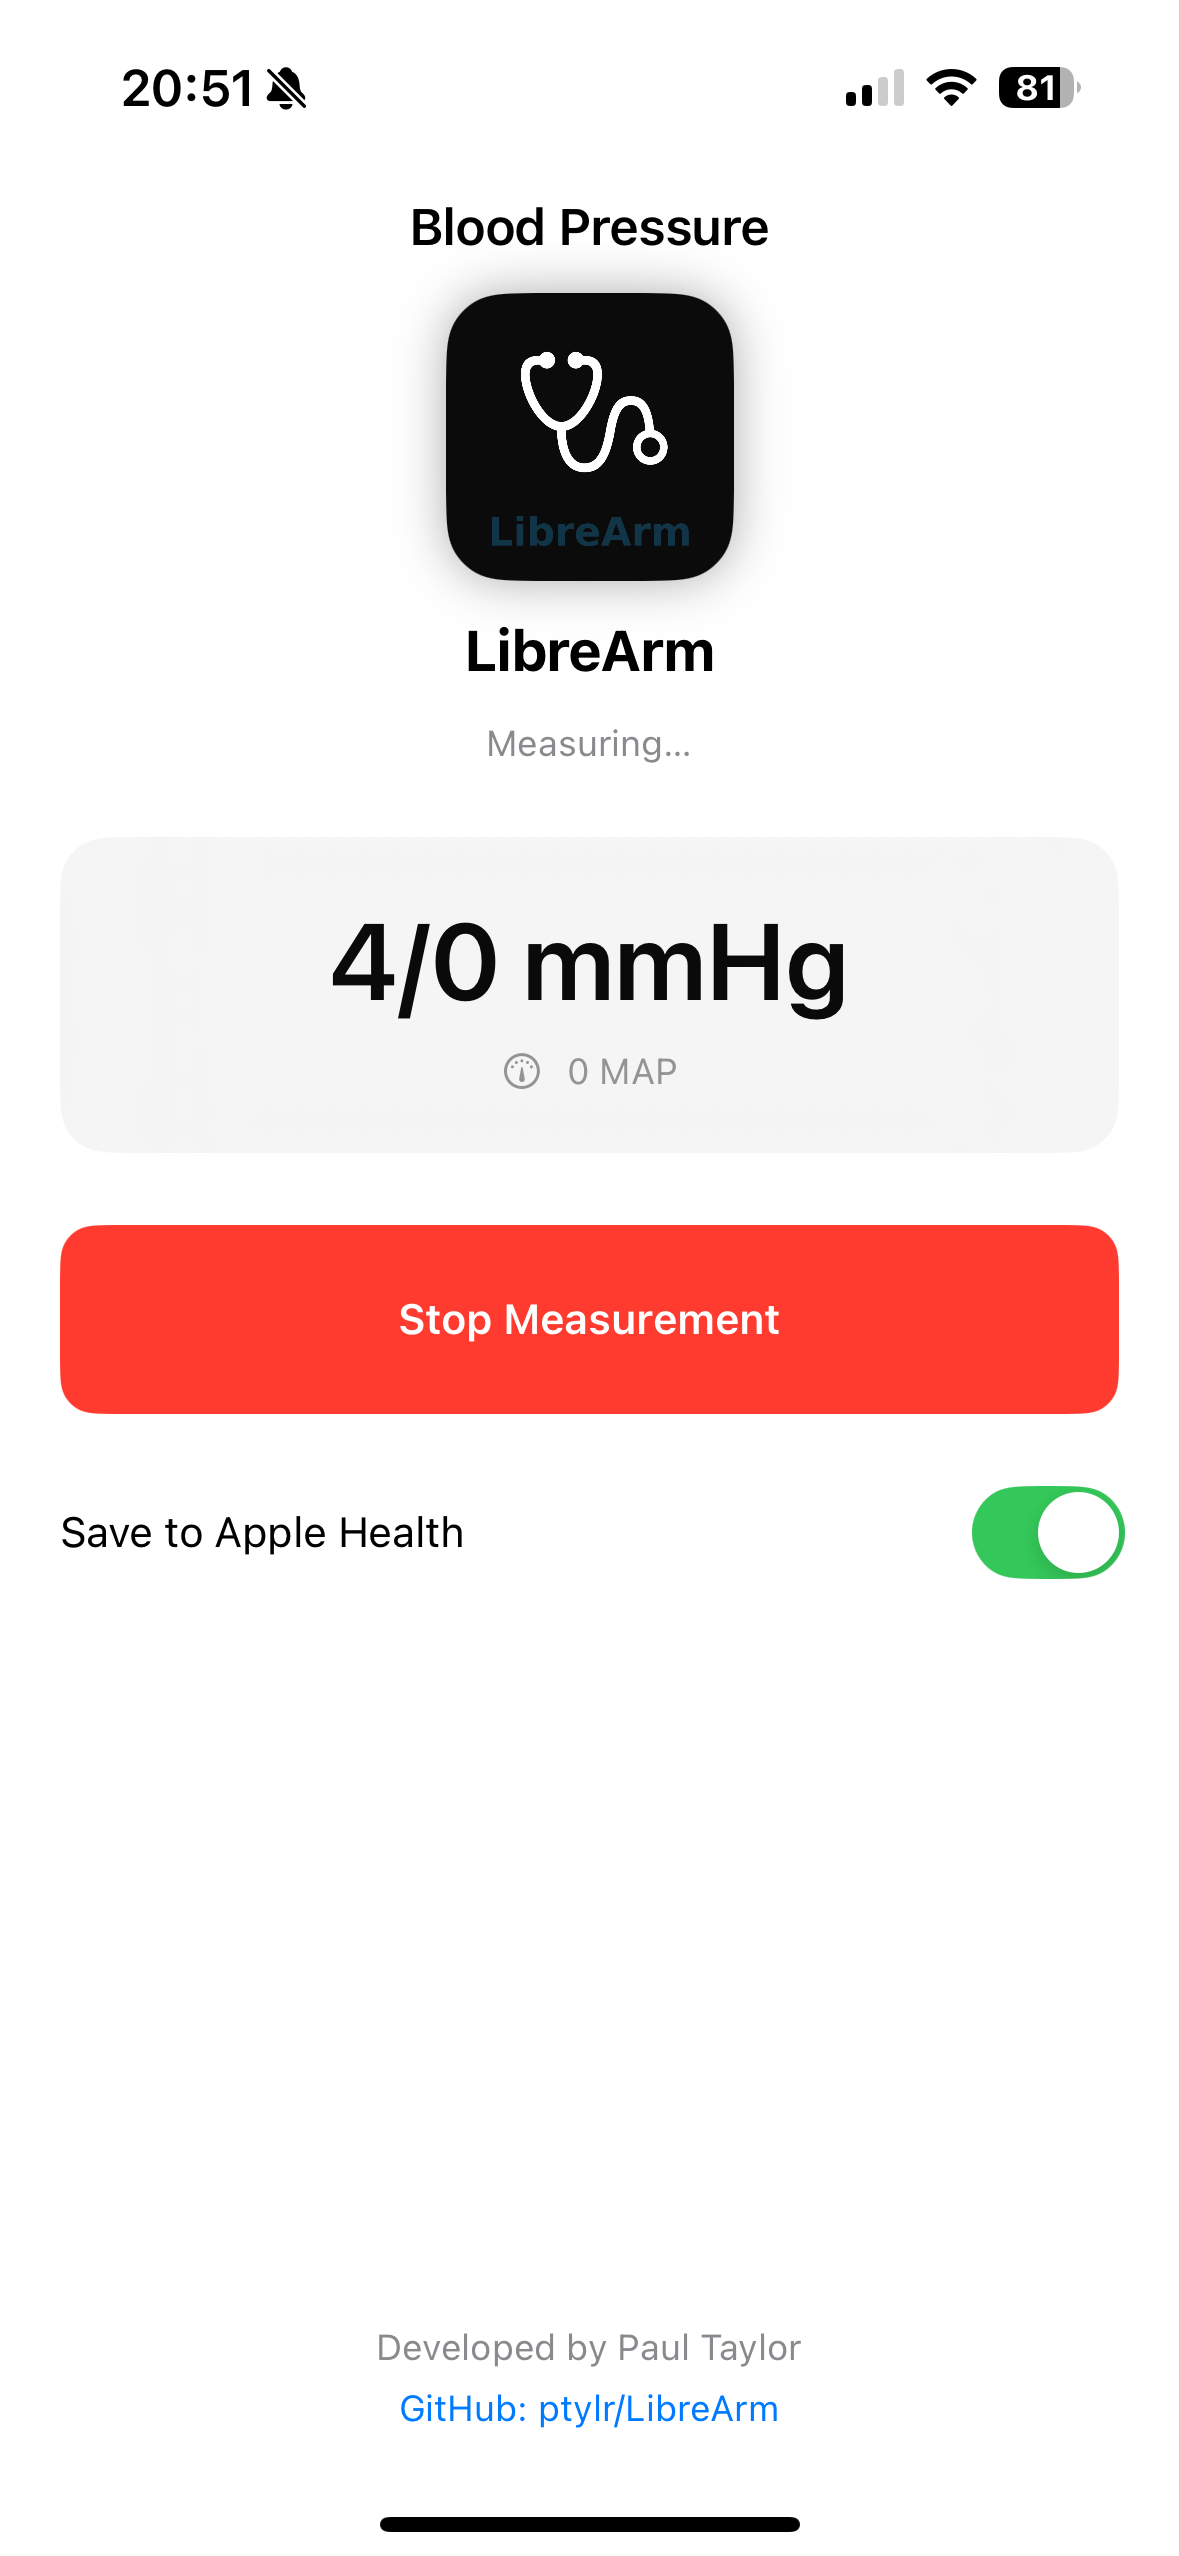
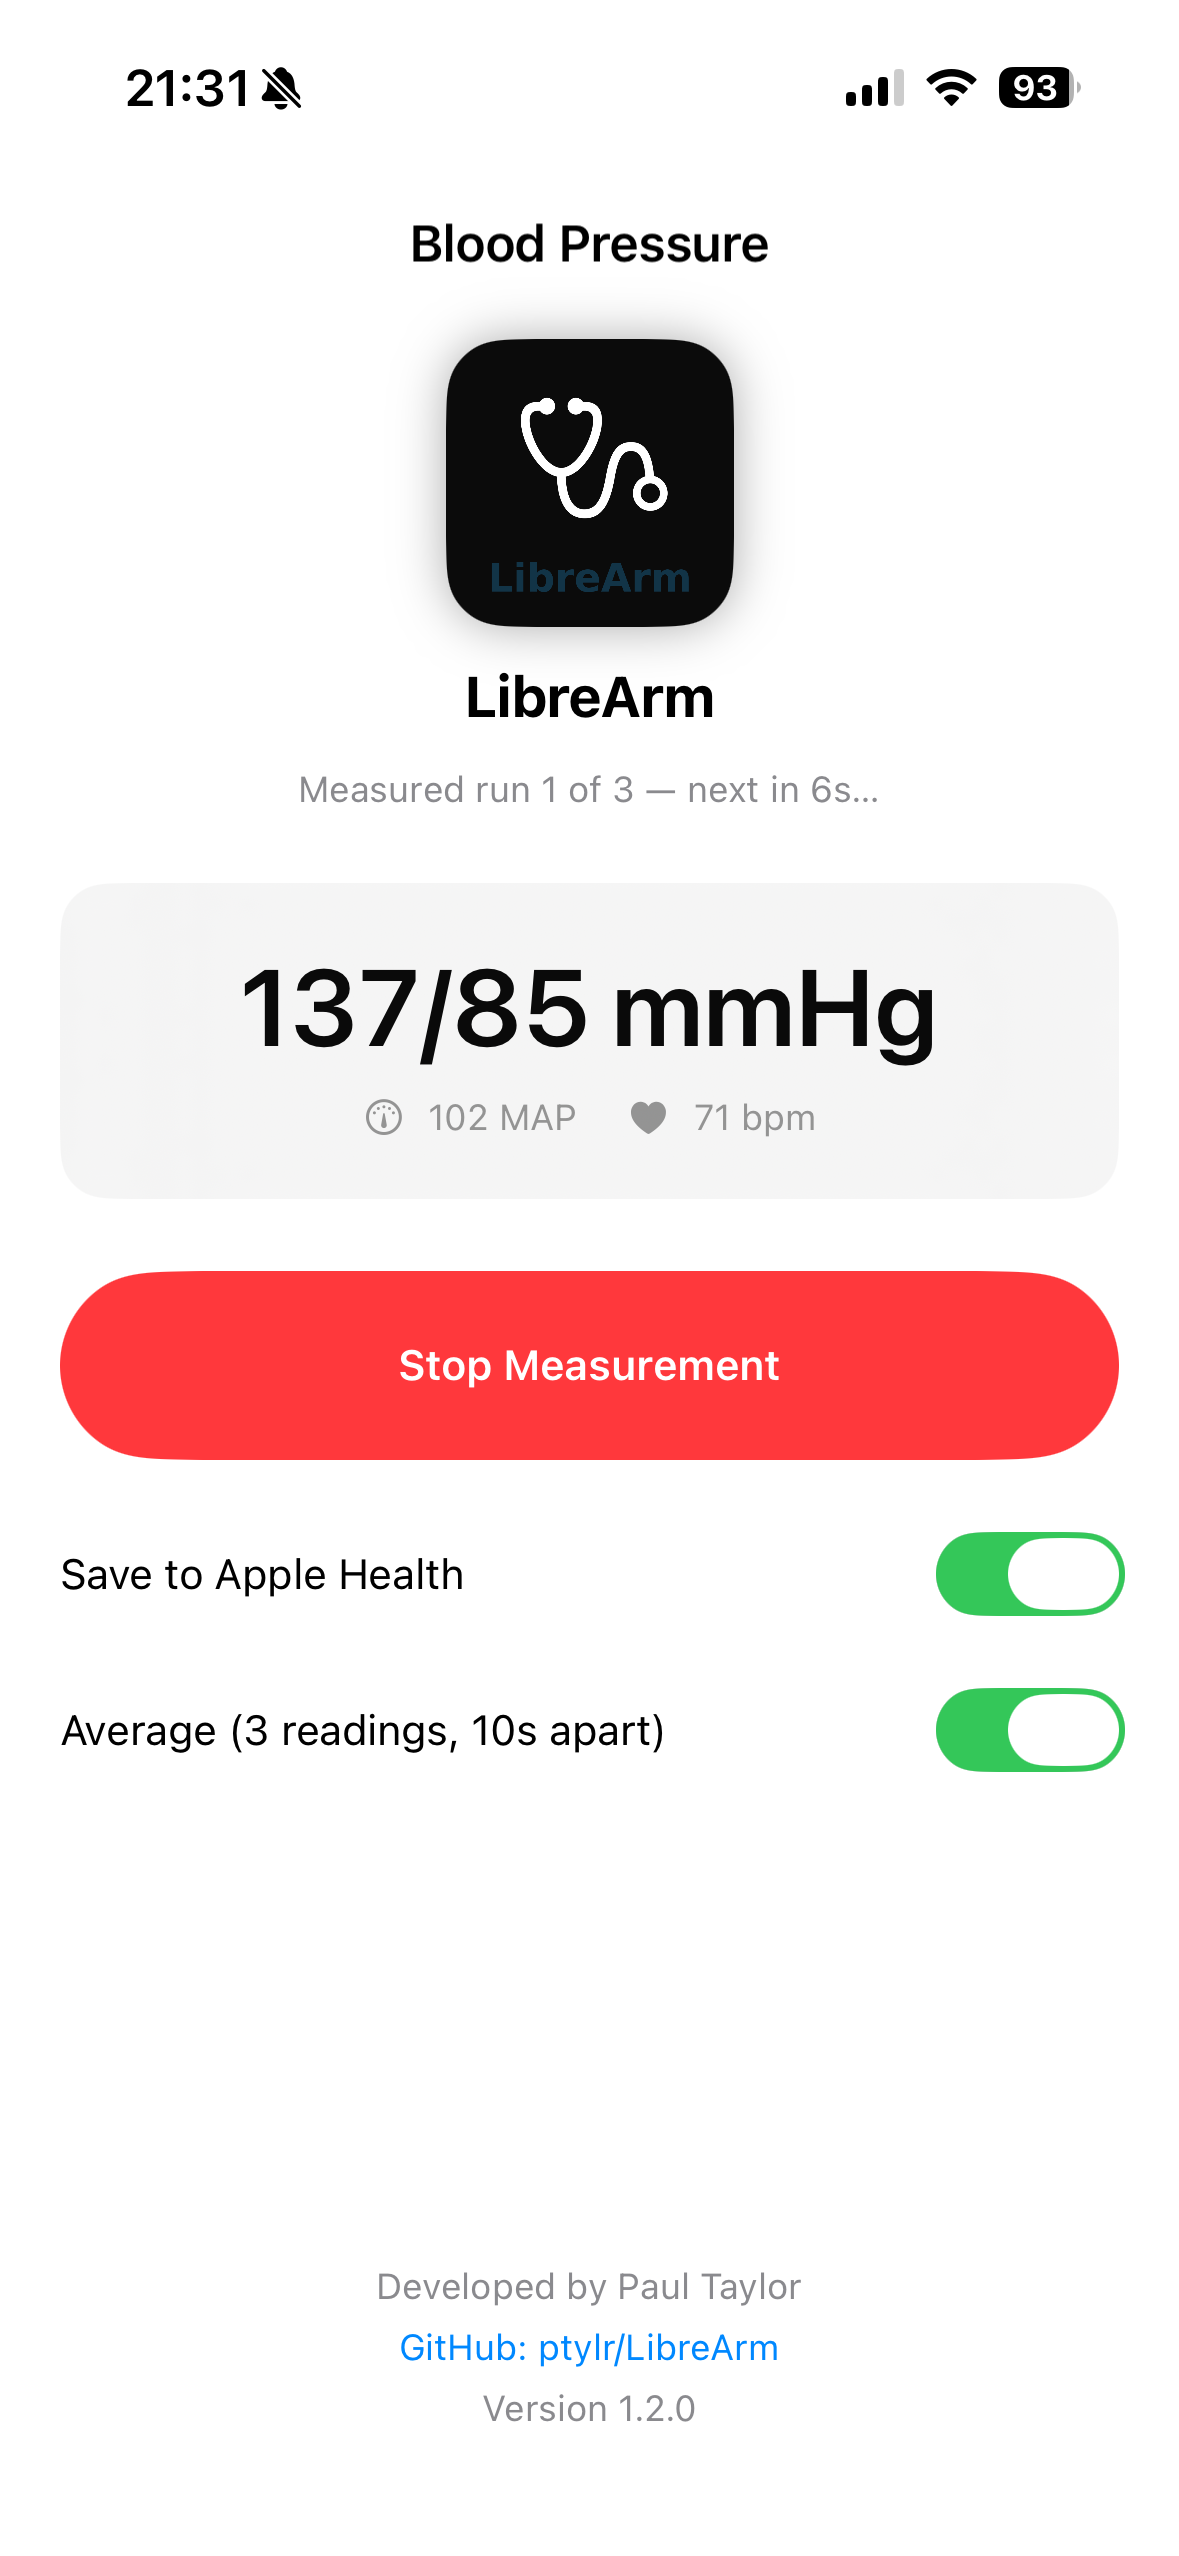
v1.2.0
What’s New in Version 1.2.0
• New Average Mode: the app now performs 3 readings spaced 10 seconds apart, and saves the averaged result
• Live countdown display between runs (“next in Xs…”)
• Stop button stays red and active until the entire 3-run sequence completes
• Screen no longer sleeps during measurements
• Added version label in the app footer for clarity

diff --git a/Core/BPClient.swift b/Core/BPClient.swift
@@ -1,5 +1,11 @@
 import CoreBluetooth
 import Foundation
+import UIKit
+
+enum MeasurementMode {
+    case single
+    case average3
+}
 
 struct BPReading { let sys: Double; let dia: Double; let map: Double?; let hr: Double? }
 
@@ -10,6 +16,14 @@ final class BPClient: NSObject, ObservableObject {
     @Published var isConnected = false
     @Published var canMeasure = false
     @Published var isMeasuring = false        // 🔴 NEW: drive Start/Stop button
+
+    // Measurement mode
+    @Published var measurementMode: MeasurementMode = .single
+
+    // Averaging session state (used only when measurementMode == .average3)
+    private var remainingRuns: Int = 0
+    private var accumulatedReadings: [BPReading] = []
+    private let interRunDelaySeconds: TimeInterval = 10
 
     /// Fires once per measurement session when the cuff stops sending updates.
     var onFinalReading: ((BPReading) -> Void)?
@@ -83,12 +97,34 @@ final class BPClient: NSObject, ObservableObject {
 
     /// Start measurement (enabled when `canMeasure` is true).
     func startMeasurement() {
-        guard let p = peripheral, let c = controlChar, canMeasure else { return }
-        status = "Measuring…"
+        guard let _ = peripheral, let _ = controlChar, canMeasure else { return }
+        // If we're already in a multi-run session, ignore additional starts so the UI stays in Stop state
+        if measurementMode == .average3 && sessionActive {
+            return
+        }
+        status = (measurementMode == .average3) ? "Measuring (run 1 of 3)…" : "Measuring…"
         sessionActive = true
         hasFiredFinal = false
-        isMeasuring = true                          // 🔴 measuring ON
+        isMeasuring = true
+        UIApplication.shared.isIdleTimerDisabled = true
         completionWorkItem?.cancel()
+
+        if measurementMode == .single {
+            // One-and-done
+            accumulatedReadings.removeAll()
+            remainingRuns = 0
+            performSingleRunStart()
+        } else {
+            // Average over 3 runs spaced by 10s
+            accumulatedReadings.removeAll()
+            remainingRuns = 3
+            performSingleRunStart()
+        }
+    }
+
+    /// Internal: send the start command to the cuff (assumes BLE characteristics are ready)
+    private func performSingleRunStart() {
+        guard let p = peripheral, let c = controlChar else { return }
         p.writeValue(startCommand, for: c, type: .withResponse)
     }
 
@@ -96,10 +132,14 @@ final class BPClient: NSObject, ObservableObject {
     func cancelMeasurement() {
         guard let p = peripheral, let c = controlChar else { return }
         p.writeValue(cancelCommand, for: c, type: .withResponse)
+        // Cancel any averaging session
+        remainingRuns = 0
+        accumulatedReadings.removeAll()
         // Do not call finalize (which would save); just reset state.
         sessionActive = false
         hasFiredFinal = true
         isMeasuring = false                         // 🔴 measuring OFF
+        UIApplication.shared.isIdleTimerDisabled = false
         status = "Connected — ready"
     }
 
@@ -116,20 +156,71 @@ final class BPClient: NSObject, ObservableObject {
 
     private func finalizeIfNeeded() {
         // Must be in-session, not already finalized, and have a latest reading
-        guard sessionActive, !hasFiredFinal, let reading = lastReading else { return }
+        guard sessionActive, let reading = lastReading else { return }
 
-        // ✅ Only finalize when the measurement sequence has finished.
-        // We treat "Pulse Rate present" as the end-of-cycle marker
-        // (per GATT 0x2A35 most cuffs include pulse only in the final frame).
-        // guard reading.hr != nil else { return }            // current behavior
-        guard reading.dia > 0 else { return }                 // fallback option
+        // Only finalize when the measurement sequence has finished.
+        // We use the presence of diastolic (>0) as the completion guard.
+        guard reading.dia > 0 else { return }
 
+        // For average3 mode, accumulate and schedule subsequent runs
+        if measurementMode == .average3 {
+            accumulatedReadings.append(reading)
 
+            // If we still have more runs to do, schedule the next one with live countdown
+            if remainingRuns > 1 {
+                remainingRuns -= 1
+                var countdown = Int(interRunDelaySeconds)
+                status = "Measured run \(3 - remainingRuns) of 3 — next in \(countdown)s…"
+                isMeasuring = true
+
+                // Countdown timer updates every second
+                Timer.scheduledTimer(withTimeInterval: 1.0, repeats: true) { timer in
+                    countdown -= 1
+                    if countdown > 0 {
+                        self.status = "Measured run \(3 - self.remainingRuns) of 3 — next in \(countdown)s…"
+                    } else {
+                        timer.invalidate()
+                        self.status = "Measuring (run \(4 - self.remainingRuns) of 3)…"
+                        self.isMeasuring = true
+                        self.performSingleRunStart()
+                    }
+                }
+                return
+            }
+
+            // This was the last run → compute average and emit once
+            let avg = average(of: accumulatedReadings)
+            hasFiredFinal = true
+            sessionActive = false
+            isMeasuring = false
+            UIApplication.shared.isIdleTimerDisabled = false
+            status = "Connected — ready"
+            onFinalReading?(avg)
+            // reset accumulators
+            remainingRuns = 0
+            accumulatedReadings.removeAll()
+            return
+        }
+
+        // Single mode → emit immediately
         hasFiredFinal = true
         sessionActive = false
         isMeasuring = false
+        UIApplication.shared.isIdleTimerDisabled = false
         status = "Connected — ready"
         onFinalReading?(reading)
+    }
+
+    private func average(of readings: [BPReading]) -> BPReading {
+        guard !readings.isEmpty else { return lastReading ?? BPReading(sys: 0, dia: 0, map: nil, hr: nil) }
+        let n = Double(readings.count)
+        let sys = readings.map { $0.sys }.reduce(0, +) / n
+        let dia = readings.map { $0.dia }.reduce(0, +) / n
+        let mapVals = readings.compactMap { $0.map }
+        let mapAvg = mapVals.isEmpty ? nil : (mapVals.reduce(0, +) / Double(mapVals.count))
+        let hrVals = readings.compactMap { $0.hr }
+        let hrAvg = hrVals.isEmpty ? nil : (hrVals.reduce(0, +) / Double(hrVals.count))
+        return BPReading(sys: sys, dia: dia, map: mapAvg, hr: hrAvg)
     }
 
     // MARK: - Parser
@@ -258,3 +349,4 @@ extension BPClient: CBCentralManagerDelegate, CBPeripheralDelegate {
         }
     }
 }
+

diff --git a/App/ContentView.swift b/App/ContentView.swift
@@ -60,6 +60,10 @@ struct ContentView: View {
 
                 // Save to Health toggle
                 Toggle("Save to Apple Health", isOn: $autoSaveToHealth)
+                Toggle("Average (3 readings, 10s apart)", isOn: Binding(
+                    get: { bp.measurementMode == .average3 },
+                    set: { bp.measurementMode = $0 ? .average3 : .single }
+                ))
 
                 Spacer(minLength: 12)
 
@@ -73,6 +77,12 @@ struct ContentView: View {
                     Text("Developed by Paul Taylor").font(.footnote).foregroundStyle(.secondary)
                     Link("GitHub: ptylr/LibreArm", destination: URL(string: "https://github.com/ptylr/LibreArm")!)
                         .font(.footnote)
+                    if let version = Bundle.main.infoDictionary?["CFBundleShortVersionString"] as? String {
+                        Text("Version \(version)")
+                            .font(.footnote)
+                            .foregroundStyle(.secondary)
+                    }
+
                 }
                 .padding(.bottom, 8)
             }

diff --git a/README.md b/README.md
@@ -20,7 +20,7 @@ This project exists because Qardio, Inc. shut down its backend services and app 
 
 ---
 
-## ✨ Features (v1.1.1)
+## ✨ Features (v1.2.0)
 
 - Connects to QardioArm over BLE (no Qardio cloud or accounts required)
 - **Connection management**:
